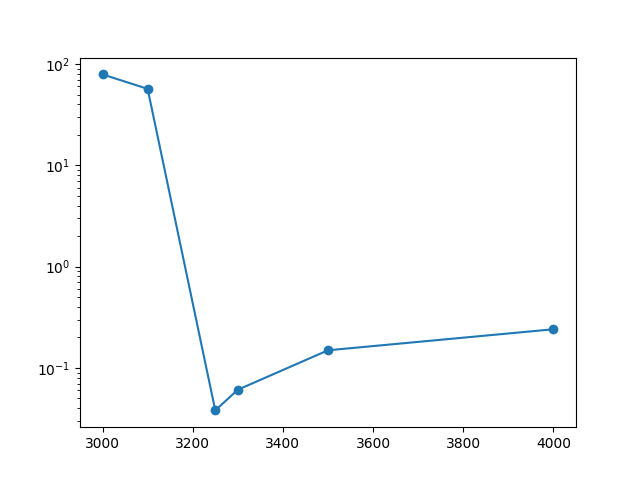
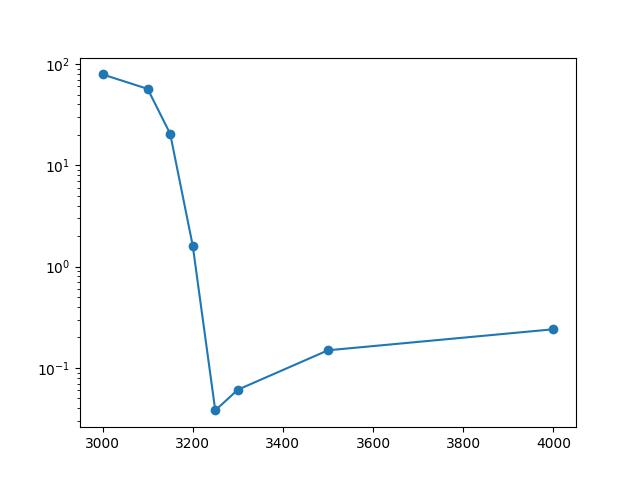
uploading updated data production files

Changed region(s): [[0.2188, 0.1875, 0.3438, 0.8438]]

diff --git a/PrintData.py b/PrintData.py
@@ -8,9 +8,30 @@ import numpy as np
 
 def main(filename):
     status, stuck_percent = getSAFstatus(filename)
-    status_display = matplotlib.pyplot.pcolormesh(status)
+    matplotlib.pyplot.pcolormesh(status)
     matplotlib.pyplot.title("%stuck=" + str(stuck_percent))
     matplotlib.pyplot.savefig("Plots/" + filename.split(sep="/")[-1][:-4] + ".png")
+    matplotlib.pyplot.close()
+
+def arrayWithAccentedFaults(filename, size, round):
+    status, stuck_percent = getSAFstatus(filename)
+
+    enlarged_status = np.full(shape=(256,256), dtype=bool, fill_value=False)
+
+    for x in range(len(status)):
+        for y in range(len(status[x])):
+            if status[x][y] == True:
+                for i in range(x - size//2, x + size//2 + 1):
+                    for j in range(y - size//2, y + size//2 + 1):
+                        if (round == False or np.linalg.norm(np.array([i, j]) - np.array([x, y])) <= size // 2):
+                            enlarged_status[min(max(0, i), len(status) - 1)][min(max(0, j), len(status[x]) - 1)] = True
+    matplotlib.pyplot.imshow(enlarged_status, cmap="binary", aspect=1, origin='lower')
+    matplotlib.pyplot.xticks(np.arange(0, 257, 64))
+    matplotlib.pyplot.yticks((np.arange(0, 257, 64)))
+    # matplotlib.pyplot.pcolormesh(enlarged_status, cmap='binary')
+    # matplotlib.pyplot.title("%stuck=" + str(stuck_percent))
+    matplotlib.pyplot.savefig("Plots/" + filename.split(sep="/")[-1][:-4] + f"_res{size}" + ".png", dpi=2000)
+    matplotlib.pyplot.close()
 
 def evaluateLRS(filename):
     object = np.load(file=filename, allow_pickle=True).item()
@@ -19,6 +40,90 @@ def evaluateLRS(filename):
     for addr, data in object["resistances"].items():
         LRS.append(data["LRS"])
     print(f"mean: {np.mean(LRS)}, std: {np.std(LRS)}")
+
+def SAFvsvoltage():
+    modules = [16, 26, 67, 69, 24, 35, 12, 20]
+    voltages = [3000, 3100, 3150, 3200, 3250, 3300, 3500, 4000]
+    data = []
+    for i in range(len(modules)):
+        status, stuck_percent = getSAFstatus(filename=f"Data/saf_m{modules[i]}_c1.npy")
+        data.append(stuck_percent)
+    matplotlib.pyplot.plot(voltages, data, marker='o')
+    matplotlib.pyplot.yscale("log")
+    matplotlib.pyplot.savefig("Plots/SAFvsVoltage.png")
+    matplotlib.pyplot.close()
+
+def SAFvsVdivided():
+    modules = [16, 26, 67, 69,  24, 35, 12, 20]
+    voltages = [3000, 3100, 3150, 3200, 3250, 3300, 3500, 4000]
+    lrs_stuck = []
+    hrs_stuck = []
+    total_stuck = []
+    for i in range(len(modules)):
+        status, total, lrs, hrs = getSAFstatusdivided(filename=f"Data/saf_m{modules[i]}_c1.npy")
+        total_stuck.append(total)
+        lrs_stuck.append(lrs)
+        hrs_stuck.append(hrs)
+        print(total, lrs + hrs)
+
+    width = 0.35
+    # matplotlib.pyplot.plot(voltages, total_stuck, color='blue')
+    matplotlib.pyplot.bar([str(voltage) + "mV" for voltage in voltages], lrs_stuck, width, color='green')
+    matplotlib.pyplot.bar([str(voltage) + "mV" for voltage in voltages], hrs_stuck,width, color='orange')
+    matplotlib.pyplot.yscale("log")
+    matplotlib.pyplot.savefig("Plots/SAFvsVoltageDivided.png")
+    matplotlib.pyplot.close()
+
+def SAFvsVcategorized():
+    modules = [16, 26, 67, 69, 24, 35, 12, 20]
+    voltages = [3000, 3100, 3150, 3200, 3250, 3300, 3500, 4000]
+    total_stuck = []
+    for i in range(len(modules)):
+        status, stuck_percent = getSAFstatus(filename=f"Data/saf_m{modules[i]}_c1.npy")
+        total_stuck.append(stuck_percent)
+        print(stuck_percent)
+
+    width = 0.35
+    # matplotlib.pyplot.plot(voltages, total_stuck, color='blue')
+    barlist = matplotlib.pyplot.bar([str(voltage) + "mV" for voltage in voltages], total_stuck, width, color='green')
+    for i in range(voltages.index(3250)):
+        barlist[i].set_color('orange')
+    matplotlib.pyplot.yscale("log")
+    matplotlib.pyplot.ylim(10 ** -3, 10 ** 2)
+    matplotlib.pyplot.savefig("Plots/SAFvsVoltageCategorized.png", dpi = 2000)
+    matplotlib.pyplot.close()
+
+def SAFvspulse():
+    modules = [47, 36, 37, 24, 63, 52]
+    pulse_widths = [5, 50, 75, 100, 200, 400]
+    data = []
+    for i in range(len(modules)):
+        status, stuck_percent = getSAFstatus(filename=f"Data/saf_m{modules[i]}_c1.npy")
+        data.append(stuck_percent)
+    plot = matplotlib.pyplot.plot(pulse_widths, data, marker='o')
+    matplotlib.pyplot.yscale("log")
+    matplotlib.pyplot.savefig("Plots/SAFvsPulse.png")
+    matplotlib.pyplot.close()
+
+def SAFvsPdivided():
+    modules = [47, 36, 37, 24, 63, 52]
+    pulse_widths = [5, 50, 75, 100, 200, 400]
+    lrs_stuck = []
+    hrs_stuck = []
+    total_stuck = []
+    for i in range(len(modules)):
+        status, total, lrs, hrs = getSAFstatusdivided(filename=f"Data/saf_m{modules[i]}_c1.npy")
+        total_stuck.append(total)
+        lrs_stuck.append(lrs)
+        hrs_stuck.append(hrs)
+
+    width = 0.35
+    # matplotlib.pyplot.plot(pulse_widths, total_stuck, marker='o', color='blue')
+    matplotlib.pyplot.bar([str(pulse_width) for pulse_width in pulse_widths], lrs_stuck, width, color='green')
+    matplotlib.pyplot.bar([str(pulse_width) for pulse_width in pulse_widths], hrs_stuck, width, color='orange')
+    matplotlib.pyplot.yscale("log")
+    matplotlib.pyplot.savefig("Plots/SAFvsPulseDivided.png")
+    matplotlib.pyplot.close()
 
 
 def evaluateResistance(filename):
@@ -49,8 +154,44 @@ def getSAFstatus(filename):
             status[row][column] = object['status'][row][column]['saf']
             if status[row][column] == True:
                 num_stuck += 1
-    stuck_percent = round((float(num_stuck) / (256 ** 2)) * 100, ndigits=4)
+    stuck_percent = (float(num_stuck) / (256 ** 2)) * 100
     return status, stuck_percent
+
+def getSAFstatusdivided(filename):
+    object = np.load(file=filename, allow_pickle=True).item()
+    # extract cells
+    status = np.ndarray(shape=(256, 256), dtype=dict)
+    lrs_average = 0
+    hrs_average = 0
+    num_stuck = 0
+    stuck_cells = []
+    for row in range(len(object['status'])):
+        for column in range(len(object['status'][row])):
+            status[row][column] = object['status'][row][column]
+            if status[row][column]['saf'] == True:
+                stuck_cells.append(status[row][column])
+                num_stuck += 1
+            else:
+                lrs_average += status[row][column]['lrs']
+                hrs_average += status[row][column]['hrs']
+    n_alive = (256 ** 2) - num_stuck
+    lrs_average /= n_alive
+    hrs_average /= n_alive
+
+    stuck_lrs = 0
+    stuck_hrs = 0
+    #check closeness to average
+    for cell in stuck_cells:
+        average_adc = np.average([cell['lrs'],cell['hrs']])
+        if np.abs(average_adc - lrs_average) < np.abs(average_adc - hrs_average):
+            stuck_lrs += 1
+        else:
+            stuck_hrs += 1
+
+    stuck_percent = (float(num_stuck) / (256 ** 2)) * 100
+    lrs_stuck_percent = (float(stuck_lrs) / (256 ** 2)) * 100
+    hrs_stuck_percent = (float(stuck_hrs) / (256 ** 2)) * 100
+    return status, stuck_percent, lrs_stuck_percent, hrs_stuck_percent
 
 def combinePlots():
     files = ["Data/saf_m16_c1.npy",
@@ -76,6 +217,7 @@ def combinePlots():
     plt.suptitle("Stuck at Fault % Across Formation Write Voltages")
     plt.tight_layout()
     plt.savefig("Plots/FormingVoltages.png")
+    matplotlib.pyplot.close()
 
 
 

diff --git a/PyTerminal.py b/PyTerminal.py
@@ -1,6 +1,8 @@
 import serial
 import Lib.CommandMap as CM
-import Applications.MNIST, Lib.TEST, USER
+import Applications.MNIST as MNIST
+import Lib.TEST as TEST
+import USER
 import Lib.DEMO as DEMO
 import Lib.UTF8 as UTF8
 import Lib.RRAM as RRAM
@@ -28,7 +30,7 @@ def connect():
     for port in list_ports.comports():
         if port.vid == int(VID, 0) and port.pid == int(PID, 0):
             global ser
-            ser = serial.Serial("/dev/" + port.name, baudrate=BAUDRATE, timeout=TIMEOUT)
+            ser = serial.Serial("" + port.name, baudrate=BAUDRATE, timeout=TIMEOUT)
 
             # print (port.name)
             version = BOARD.version(False)
